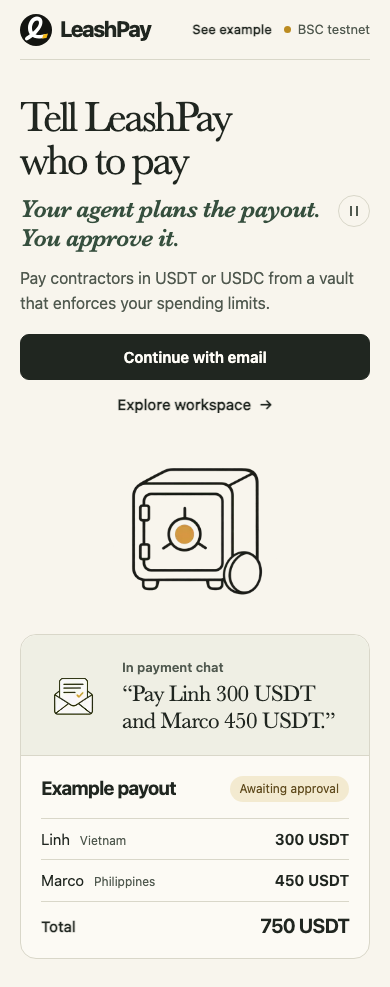
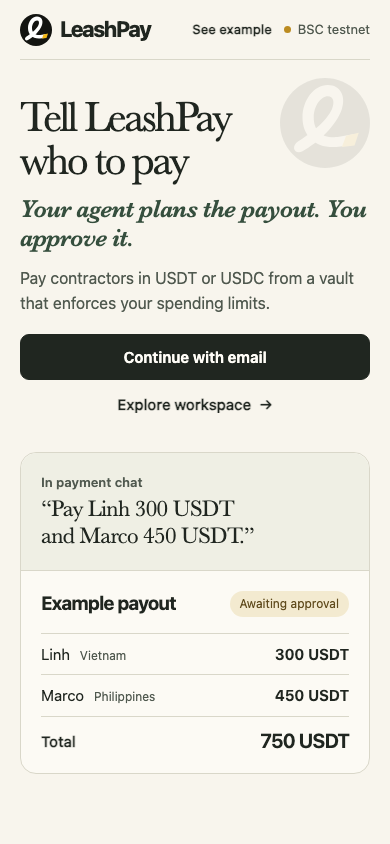
Use a quiet LeashPay watermark and slow the landing tagline

diff --git a/web/app/Welcome.module.css b/web/app/Welcome.module.css
@@ -33,9 +33,9 @@
   letter-spacing: -.054em;
   text-wrap: balance;
 }
-.tagline { display: flex; align-items: start; gap: 8px; margin-top: 12px; }
 .phrases {
   display: grid;
+  margin-top: 12px;
   min-width: 0;
   color: var(--green);
   font: italic 600 clamp(25px, 2.5vw, 36px)/1.15 var(--serif);
@@ -44,25 +44,8 @@
 /* Both phrases size the same grid cell, including when the longer one wraps. */
 .phrases span { grid-area: 1 / 1; opacity: 0; transition: opacity 160ms ease-out; }
 .phrases span[data-active="true"] { opacity: 1; }
-.rotationControl {
-  display: grid;
-  place-items: center;
-  flex: none;
-  width: 32px;
-  height: 32px;
-  padding: 0;
-  border: 1px solid var(--line);
-  border-radius: 50%;
-  background: transparent;
-  color: var(--muted);
-  cursor: pointer;
-}
-.rotationControl:hover { background: #efefe4; }
-.rotationControl::before { content: ""; width: 4px; height: 10px; box-sizing: content-box; border-inline: 2px solid; }
-.rotationControl[data-paused="true"]::before { width: 0; height: 0; margin-left: 2px; border: solid transparent; border-width: 5px 0 5px 8px; border-left-color: currentColor; }
 @media (prefers-reduced-motion: reduce) {
   .phrases span { grid-area: auto; opacity: 1; transition: none; }
-  .rotationControl { display: none; }
 }
 .intro p { max-width: 440px; margin: 20px 0 26px; color: var(--muted); font-size: clamp(16px, 1.4vw, 18px); line-height: 1.55; }
 .actions { flex-wrap: wrap; gap: 4px 22px; }
@@ -80,7 +63,14 @@
 }
 .signIn:hover:enabled { background: var(--green); }
 .signIn:disabled { opacity: .65; cursor: wait; }
-.vaultArt { display: block; width: 100%; max-width: 480px; height: auto; justify-self: center; }
+.watermark {
+  display: block;
+  width: clamp(144px, 20vw, 256px);
+  height: auto;
+  justify-self: center;
+  opacity: .12;
+  pointer-events: none;
+}
 
 .example {
   display: grid;
@@ -94,14 +84,12 @@
 .request {
   margin: 0;
   display: flex;
-  align-items: center;
-  gap: clamp(14px, 2vw, 26px);
+  flex-direction: column;
+  justify-content: center;
   border-radius: 16px 0 0 16px;
   background: #efefe4;
 }
-.request img { width: clamp(64px, 7.5vw, 108px); height: auto; flex: none; }
-.request figcaption { min-width: 0; }
-.request figcaption > span { color: var(--muted); font-size: 13px; font-weight: 600; }
+.request figcaption { color: var(--muted); font-size: 13px; font-weight: 600; }
 .request blockquote { max-width: 19ch; margin: 8px 0 0; font: 500 clamp(23px, 2.2vw, 33px)/1.16 var(--serif); letter-spacing: -.025em; }
 .payout { border-left: 1px solid var(--line); }
 .payout header, .payout dl > div { display: flex; justify-content: space-between; align-items: center; gap: 10px; }
@@ -121,13 +109,12 @@
   .page { padding: 0 max(20px, env(safe-area-inset-right)) 28px max(20px, env(safe-area-inset-left)); }
   .header { min-height: 60px; }
   .layout { max-width: 480px; }
-  .hero { grid-template-columns: 1fr; gap: 16px; padding-block: 36px 22px; }
+  .hero { position: relative; isolation: isolate; grid-template-columns: 1fr; padding-block: 36px 26px; }
   .intro h1 { font-size: clamp(43px, 9.4vw, 57px); }
   .intro p { margin: 14px 0 18px; }
-  .vaultArt { width: min(100%, 310px); }
+  .watermark { position: absolute; z-index: -1; top: 18px; right: 0; width: clamp(76px, 23vw, 110px); opacity: .08; }
   .example { grid-template-columns: 1fr; }
-  .request { border-radius: 16px 16px 0 0; gap: 16px; }
-  .request img { width: 65px; }
+  .request { border-radius: 16px 16px 0 0; }
   .request blockquote { font-size: 23px; margin-top: 4px; }
   .payout { border-left: 0; border-top: 1px solid var(--line); }
 }
@@ -141,5 +128,4 @@
 
 @media (max-width: 480px) {
   .actions { flex-direction: column; align-items: stretch; gap: 2px; }
-  .vaultArt { width: min(100%, 255px); }
 }

diff --git a/web/app/page.tsx b/web/app/page.tsx
@@ -10,16 +10,14 @@ import styles from "./Welcome.module.css";
 
 function PayoutTagline() {
   const [showApproval, setShowApproval] = useState(false);
-  const [paused, setPaused] = useState(false);
 
   useEffect(() => {
-    if (paused) return;
     const motion = window.matchMedia("(prefers-reduced-motion: reduce)");
     let timer: number | undefined;
     function sync() {
       window.clearInterval(timer);
       if (!motion.matches && !document.hidden) {
-        timer = window.setInterval(() => setShowApproval(current => !current), 1000);
+        timer = window.setInterval(() => setShowApproval(current => !current), 4_000);
       }
     }
     sync();
@@ -30,17 +28,12 @@ function PayoutTagline() {
       motion.removeEventListener("change", sync);
       document.removeEventListener("visibilitychange", sync);
     };
-  }, [paused]);
+  }, []);
 
-  const action = paused ? "Resume rotating text" : "Pause rotating text";
   return (
-    <div className={styles.tagline}>
-      <div className={styles.phrases}>
-        <span data-active={!showApproval}>Stablecoin payouts</span>{" "}
-        <span data-active={showApproval}>Your agent plans the payout. You approve it.</span>
-      </div>
-      <button type="button" className={styles.rotationControl} aria-label={action} title={action}
-        data-paused={paused} onClick={() => setPaused(current => !current)} />
+    <div className={styles.phrases}>
+      <span data-active={!showApproval}>Stablecoin payouts</span>{" "}
+      <span data-active={showApproval}>Your agent plans the payout. You approve it.</span>
     </div>
   );
 }
@@ -71,16 +64,12 @@ export default function Home() {
               <Link href="/workspace">Explore workspace <span aria-hidden="true">→</span></Link>
             </div>
           </div>
-          <Image className={styles.vaultArt} src="/illustrations/payment-vault.webp" alt=""
-            width={1200} height={800} sizes="(max-width: 700px) 90vw, (max-width: 1250px) 48vw, 590px" loading="eager" />
+          <Image className={styles.watermark} src="/icon.svg" alt="" width={256} height={256} />
         </section>
         <section className={styles.example} id="example-payout" aria-labelledby="example-title" tabIndex={-1}>
           <figure className={styles.request}>
-            <Image src="/illustrations/payout-slip.webp" alt="" width={112} height={112} />
-            <figcaption>
-              <span>In payment chat</span>
-              <blockquote>“Pay Linh 300 USDT and Marco 450 USDT.”</blockquote>
-            </figcaption>
+            <figcaption>In payment chat</figcaption>
+            <blockquote>“Pay Linh 300 USDT and Marco 450 USDT.”</blockquote>
           </figure>
           <div className={styles.payout}>
             <header>
